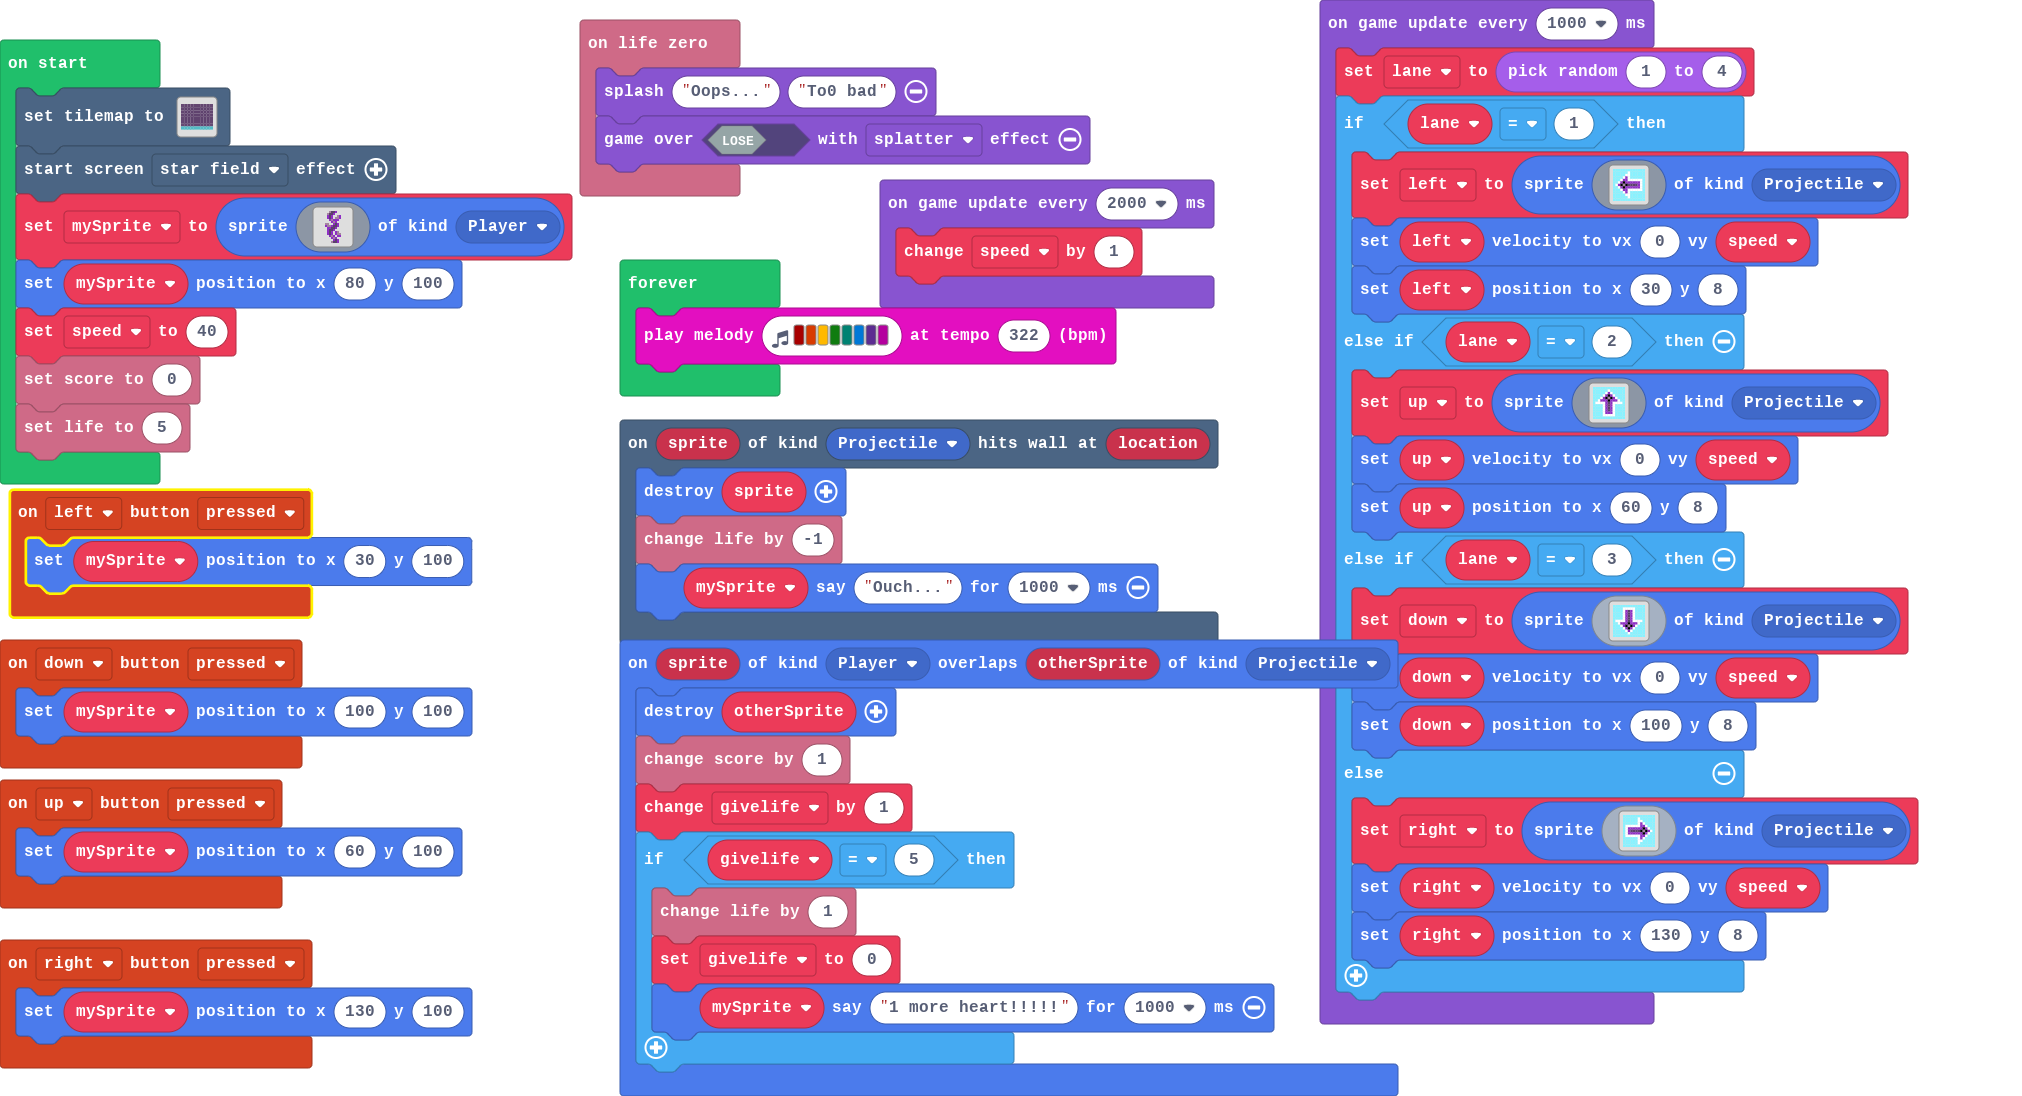
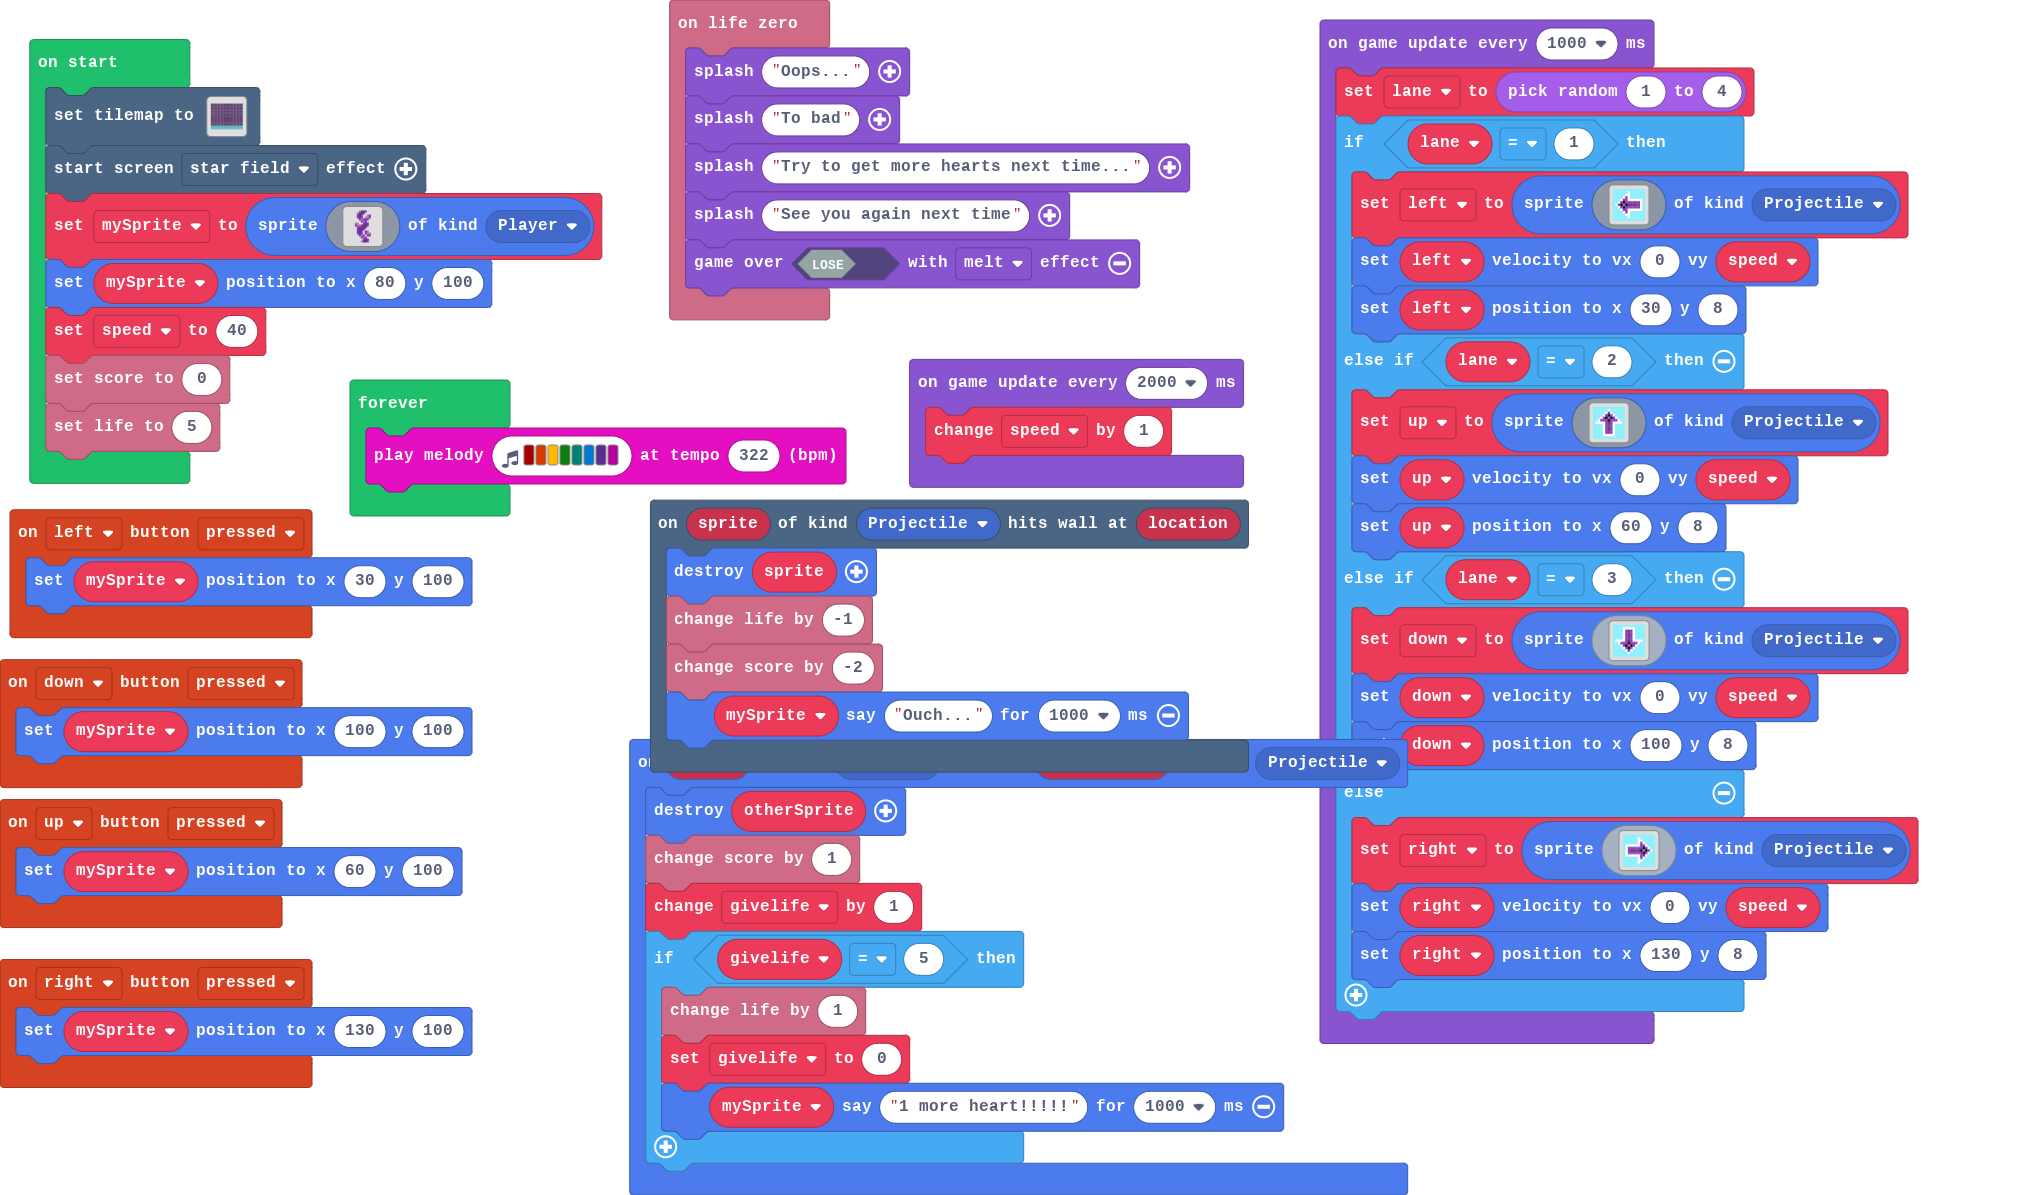
Update pxt.json, main.blocks, main.ts

diff --git a/main.ts b/main.ts
@@ -21,12 +21,16 @@ controller.down.onEvent(ControllerButtonEvent.Pressed, function () {
     mySprite.setPosition(100, 100)
 })
 info.onLifeZero(function () {
-    game.splash("Oops...", "To0 bad")
-    game.over(false, effects.splatter)
+    game.splash("Oops...")
+    game.splash("To bad")
+    game.splash("Try to get more hearts next time...")
+    game.splash("See you again next time")
+    game.over(false, effects.melt)
 })
 scene.onHitWall(SpriteKind.Projectile, function (sprite, location) {
     sprite.destroy()
     info.changeLifeBy(-1)
+    info.changeScoreBy(-2)
     mySprite.say("Ouch...", 1000)
 })
 let right: Sprite = null
